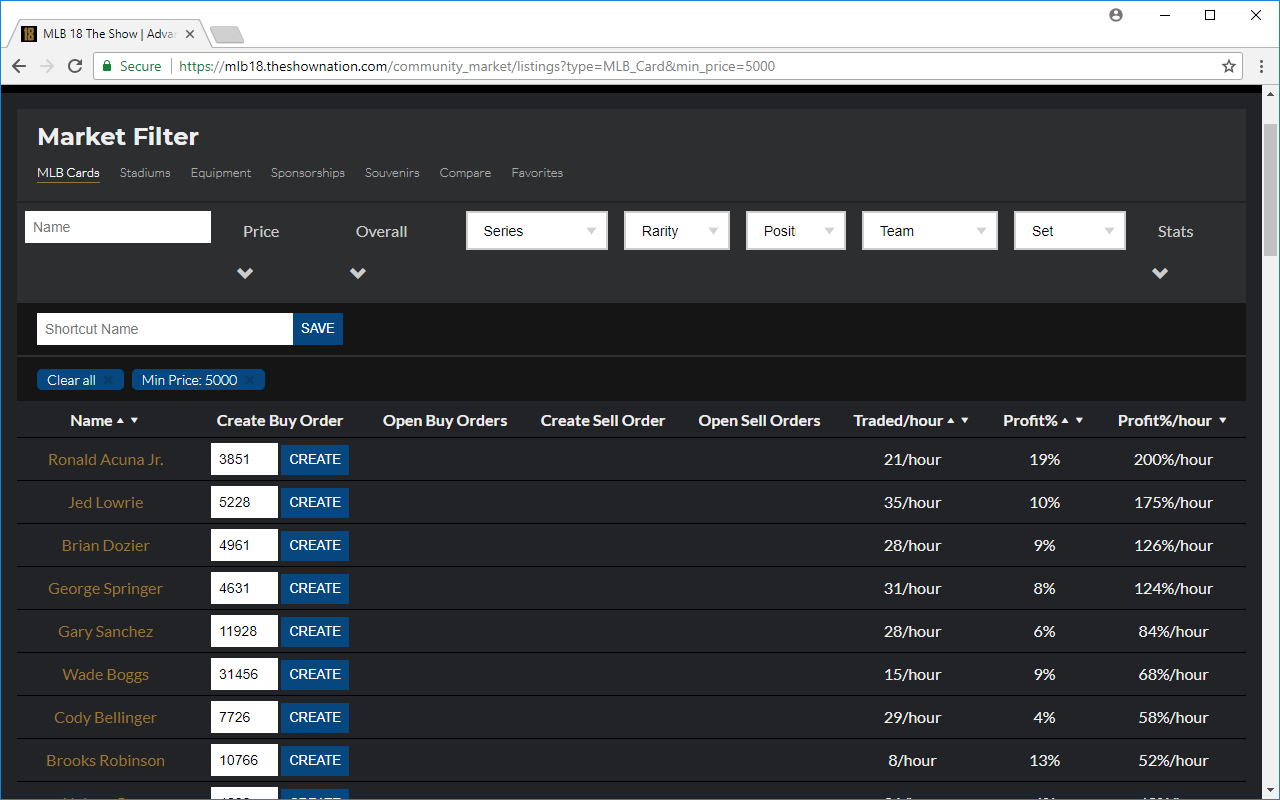
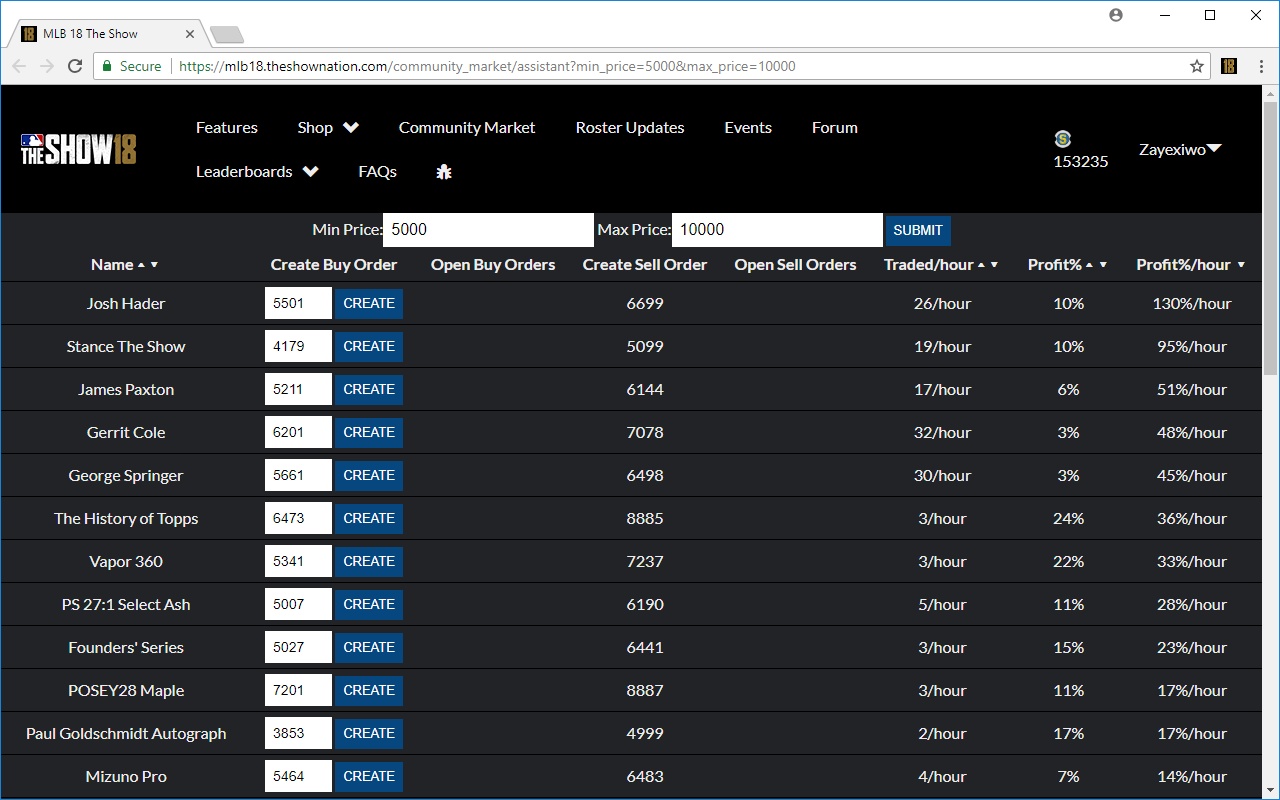
Version 11

diff --git a/extension/scripts/assistant.js b/extension/scripts/assistant.js
@@ -1,0 +1,173 @@
+// Insert our page template
+urlSearchParams = new URLSearchParams(window.location.search)
+min_price = urlSearchParams.get("min_price")
+max_price = urlSearchParams.get("max_price")
+templateHTML = '<center><form method="get">Min Price:<input name="min_price" value="' + min_price + '"> Max Price:<input name="max_price" value="' + max_price + '"> <input type="submit" value="Submit"><center></form><table class="sortable" width=100%><thead><tr><th>Name</th><th class="sorttable_nosort">Create Buy Order</th><th class="sorttable_nosort">Open Buy Orders</th><th class="sorttable_nosort">Create Sell Order</th><th class="sorttable_nosort">Open Sell Orders</th><th class="sorttable_numeric">Traded/hour</th><th class="sorttable_numeric">Profit%</th></th><th class="sorttable_numeric" id="ppph">Profit%/hour</th></tr></thead><tbody></tbody></table>'
+$(".content-inner").replaceWith(templateHTML)
+// Pre-requisites
+prerequisiteAjaxs = []
+// Get open orders
+prerequisiteAjaxs.push(
+  $.ajax({
+    url: "/orders"
+  }).done(function (ordersPageData) {
+    shopList = $(".shop-list", ordersPageData)
+    openBuyOrders = $(shopList).find(".orders")[0]
+    openSellOrders = $(shopList).find(".orders")[1]
+  })
+)
+// Check how many pages total are being requested
+types = [["MLB_Card", 1], ["Stadium", 1], ["Equipment", 1], ["Sponsorship", 1], ["Souvenir", 1]]
+totalPages = 0
+$(types).each(function (index) {
+  pageUrl = "https://mlb18.theshownation.com/community_market/listings?type=" + types[index][0] + "&min_price=" + min_price + "&max_price=" + max_price
+  prerequisiteAjaxs.push(
+    $.ajax({
+      url: pageUrl
+    }).done(function (listingsPageData) {
+      pageCountContainer = $(".pagination", listingsPageData).children().last().prev()[0]
+      if (pageCountContainer != null) types[index][1] = Number(pageCountContainer.innerText)
+    })
+  )
+})
+// When done with all pre-requisites
+$.when.apply($, prerequisiteAjaxs).then(function () {
+  $(document).ajaxStop(function () {
+    ppphTh = document.getElementById("ppph")
+    sorttable.innerSortFunction.apply(ppphTh, [])
+  })
+  $(types).each(function () {
+    for (i = 1; i <= this[1]; i++) {
+      pageUrl = "https://mlb18.theshownation.com/community_market/listings?type=" + this[0] + "&min_price=" + min_price + "&max_price=" + max_price + "&page=" + i
+      // Scrape each page for item links
+      $.ajax({
+        url: pageUrl
+      }).done(function (listingsPageData) {
+        $(".marketplace-filter-item-name > a", listingsPageData).each(function () {
+          // Got the link, now go get the details
+          $.ajax({
+            url: $(this).attr("href")
+          }).done(function (itemPageData) {
+            // Got the details, do calculations and then write them into our main table
+            row = $("<tr></tr>")
+            $("tbody").append(row)
+            // Populate "Name" column
+            lastBreadcrumb = $($(".breadcrumbs > a", itemPageData)[2])
+            itemPath = lastBreadcrumb.attr("href")
+            row.append("<td>" + lastBreadcrumb[0].innerText + "</a></td>")
+            // Populate "Create Buy Order" column
+            highestBuyOrderContainer = $(".marketplace-card-sell-orders td", itemPageData)[0]
+            highestBuyOrderNumber = highestBuyOrderContainer == null ? "-" : cleanNumberString(highestBuyOrderContainer.innerText) + 1
+            createBuyOrderCell = $("<td>")
+            if (cleanNumberString($(".header-wallet")[0].innerText) > highestBuyOrderNumber) {
+              buyForm = $("#create-buy-order-form", itemPageData)
+              $("#price", buyForm).attr("size", 3)
+              buyForm.children().last().remove()
+              buyForm.children().last()[0].innerText = "Create"
+              $("#price", buyForm)[0].value = highestBuyOrderNumber
+              createBuyOrderCell.append(buyForm)
+            }
+            else {
+              createBuyOrderCell.append(highestBuyOrderNumber)
+            }
+            row.append(createBuyOrderCell)
+            // Populate "Open Buy Orders" column
+            openBuyOrdersCell = $("<td>")
+            $(openBuyOrders).find(".order").each(function () {
+              openBuyOrderPathContainer = $(this).find("a")[0]
+              openBuyOrderPath = openBuyOrderPathContainer.pathname
+              // If we have an open buy order for the item we are currently building the row for
+              if (itemPath == openBuyOrderPath) {
+                openBuyOrderPathContainer = $(this).find(".item-price")[0]
+                openBuyOrderPrice = cleanNumberString($(openBuyOrderPathContainer)[0].innerText)
+                cancelButton = $(this).find("form")
+                cancelButton.children().prepend(openBuyOrderPrice + " ")
+                secondHighestBuyOrderNumber = cleanNumberString($(".marketplace-card-sell-orders tr td", itemPageData)[2].innerText)
+                if (openBuyOrderPrice == secondHighestBuyOrderNumber + 1) {
+                  cancelButton.css("color", "green")
+                }
+                else {
+                  cancelButton.css("color", "red")
+                }
+                openBuyOrdersCell.append(cancelButton[0])
+              }
+            })
+            row.append(openBuyOrdersCell)
+            // Populate "Create Sell Order" column
+            lowestSellOrderContainer = $(".marketplace-card-buy-orders td", itemPageData)[0]
+            lowestSellOrderNumber = lowestSellOrderContainer == null ? "-" : cleanNumberString(lowestSellOrderContainer.innerText) - 1
+            createSellOrderCell = $("<td>")
+            // TODO: This number is bugged, check inventory instead
+            if (cleanNumberString($(".marketplace-card-owned", itemPageData)[1].innerText) > 0) {
+              sellForm = $("#create-sell-order-form", itemPageData)
+              $("#price", sellForm).attr("size", 3)
+              sellForm.children().last().remove()
+              sellForm.children().last()[0].innerText = "Create"
+              // TODO: Check if the lowest sell order is already ours
+              $("#price", sellForm)[0].value = lowestSellOrderNumber
+              createSellOrderCell.append(sellForm)
+            }
+            else {
+              createSellOrderCell.append(lowestSellOrderNumber)
+            }
+            row.append(createSellOrderCell)
+            // Populate "Open Sell Orders" column
+            openSellOrdersCell = $("<td>")
+            $(openSellOrders).find(".order").each(function () {
+              openSellOrderPathContainer = $(this).find("a")[0]
+              openSellOrderPath = openSellOrderPathContainer.pathname
+              // If we have an open sell order for the item we are currently building the row for
+              if (itemPath == openSellOrderPath) {
+                openSellOrderPathContainer = $(this).find(".item-price")[0]
+                openSellOrderPrice = cleanNumberString($(openSellOrderPathContainer)[0].innerText)
+                cancelButton = $(this).find("form")
+                cancelButton.children().prepend(openSellOrderPrice + " ")
+                secondLowestSellOrderNumber = cleanNumberString($(".marketplace-card-buy-orders tr td", itemPageData)[2].innerText)
+                if (openSellOrderPrice == secondLowestSellOrderNumber - 1) {
+                  cancelButton.css("color", "green")
+                }
+                else {
+                  cancelButton.css("color", "red")
+                }
+                openSellOrdersCell.append(cancelButton[0])
+              }
+            })
+            row.append(openSellOrdersCell)
+            // Populate "Traded/hour" column
+            tradedPastHour = 0
+            $(".completed-order", itemPageData).each(function () {
+              orderDate = Date.parse($(this).find(".date").text())
+              oneHourAgo = new Date().addHours(-1)
+              // These come in descending order
+              if (Date.compare(orderDate, oneHourAgo) == 1) {
+                tradedPastHour++
+              }
+              else {
+                // Stop as soon as you find one that is more than an hour ago
+                return false
+              }
+            })
+            row.append("<td>" + tradedPastHour + "/hour</td>")
+            // Populate Profit% and Profit%/hour columns
+            if (highestBuyOrderNumber != "-" && lowestSellOrderNumber != "-") {
+              profitPercent = precisionRound((((lowestSellOrderNumber * .9) - highestBuyOrderNumber) / highestBuyOrderNumber) * 100, 0)
+              row.append("<td>" + profitPercent + "%</td>")
+              profitPercentAfterTaxPerHour = precisionRound(profitPercent * (tradedPastHour / 2), 0)
+              row.append("<td>" + profitPercentAfterTaxPerHour + "%/hour</td></tr>")
+            }
+            else {
+              row.append("<td>-</td><td>-</td></tr>")
+            }
+          })
+        })
+      })
+    }
+  })
+});
+function cleanNumberString(numberString) {
+  return Number(numberString.replace(/\D/g, ""))
+}
+function precisionRound(number, precision) {
+  factor = Math.pow(10, precision)
+  return Math.round(number * factor) / factor
+}

diff --git a/extension/scripts/background.js b/extension/scripts/background.js
@@ -1,0 +1,3 @@
+chrome.browserAction.onClicked.addListener(function (activeTab) {
+  chrome.tabs.create({ url: 'https://mlb18.theshownation.com/community_market/assistant?min_price=5000&max_price=10000' })
+}); 

diff --git a/extension/scripts/listing.js b/extension/scripts/listing.js
@@ -1,0 +1,3 @@
+if (document.referrer.search(/:\/\/mlb18.theshownation.com\/community_market\/assistant/) >= 0) {
+  window.location.replace(document.referrer);
+}

diff --git a/extension/scripts/orders.js b/extension/scripts/orders.js
@@ -1,0 +1,3 @@
+if (document.referrer.search(/:\/\/mlb18.theshownation.com\/community_market\/assistant/) >= 0) {
+  window.location.replace(document.referrer);
+}
